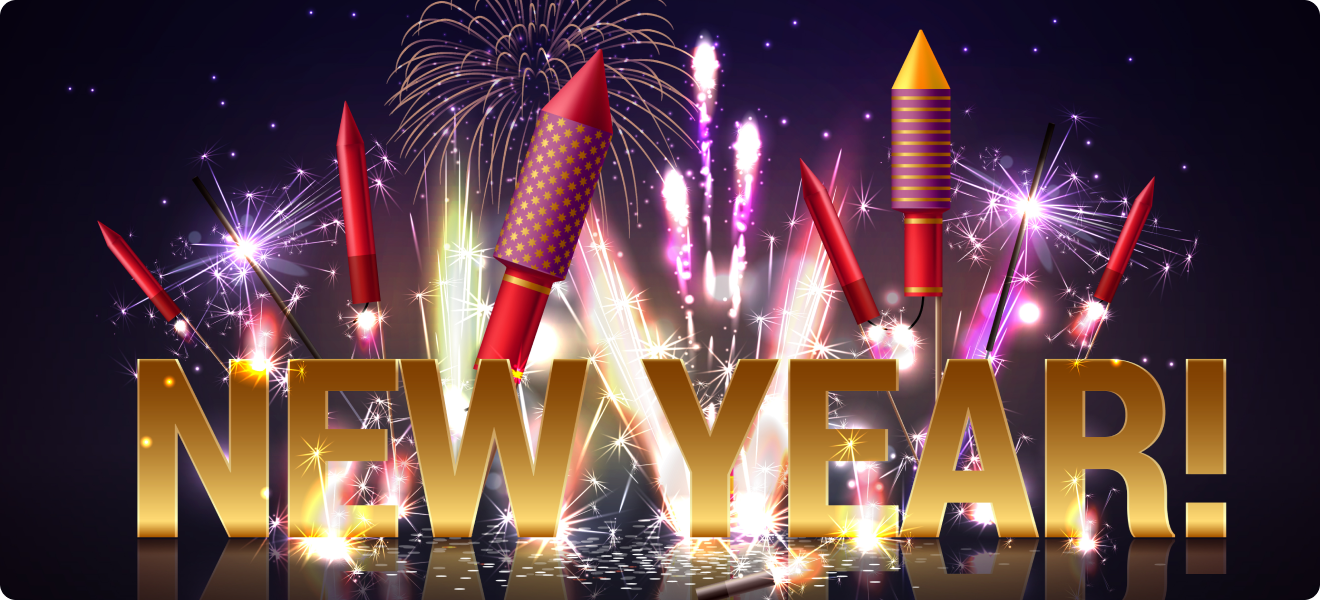
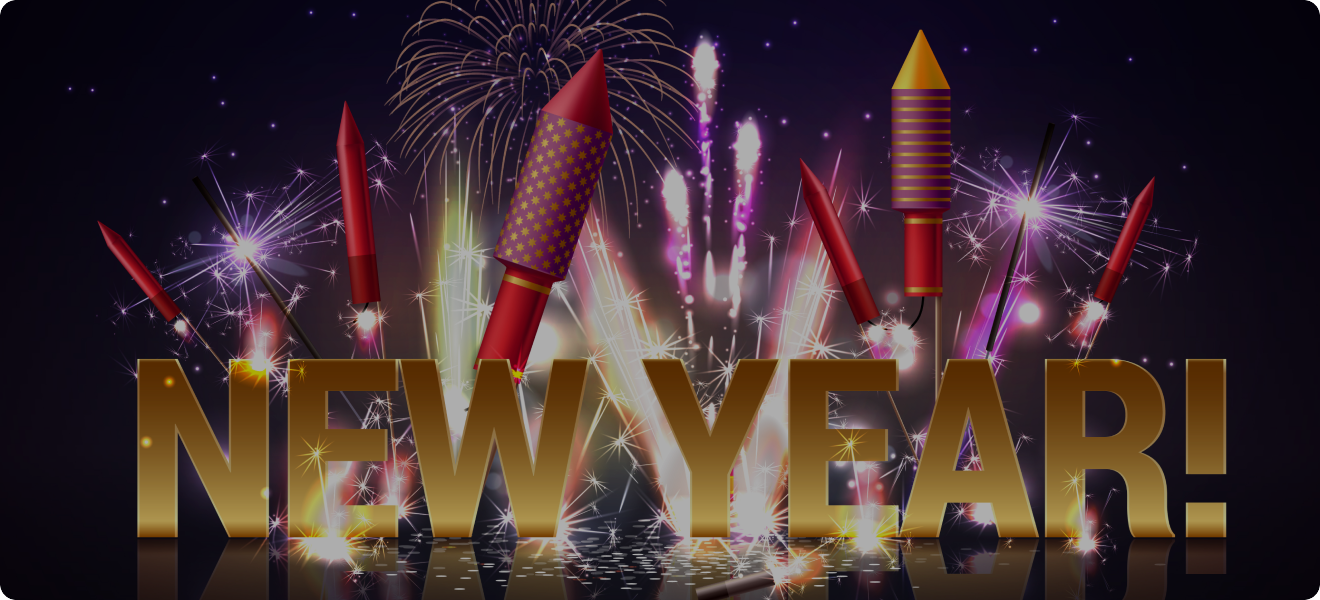
added hero

diff --git a/style.css b/style.css
@@ -3,3 +3,35 @@
   padding: 0;
   box-sizing: border-box;
 }
+
+/* Hero-Section styleing ST */
+
+.hero {
+  height: 100vh;
+  width: 100%;
+  display: flex;
+  align-items: center;
+  justify-content: center;
+  background-image: url("resources/Banner\ Image.png");
+  background-repeat: no-repeat;
+  background-position: center;
+  background-size: cover;
+}
+
+.hero-contain h2{
+  color: #FFF;
+  text-align: center;
+  font-family: Merriweather;
+  font-size: 32px;
+  font-weight: 400;
+}
+.hero-contain h3{
+  color: #FFF;
+  text-align: center;
+  font-family: Merriweather;
+  font-size: 72px;
+  font-weight: 900;
+  line-height: 95px;
+}
+
+/* Hero-Section styleing END */

diff --git a/index.html b/index.html
@@ -7,6 +7,27 @@
   <title>First-Assignmant</title>
 </head>
 <body>
-  <h1>hello world</h1>
+  <header>
+
+    <section>
+      <div class="hero">
+        <div class="hero-contain">
+          <h2>Happy New Year</h2>
+          <h3>New Year Party <br>Celebration</h3>
+        </div>
+      </div>
+    </section>
+
+  </header>
+
+  <main>
+    <section>
+      
+    </section>
+  </main>
+
+  <footer>
+
+  </footer>
 </body>
 </html>
